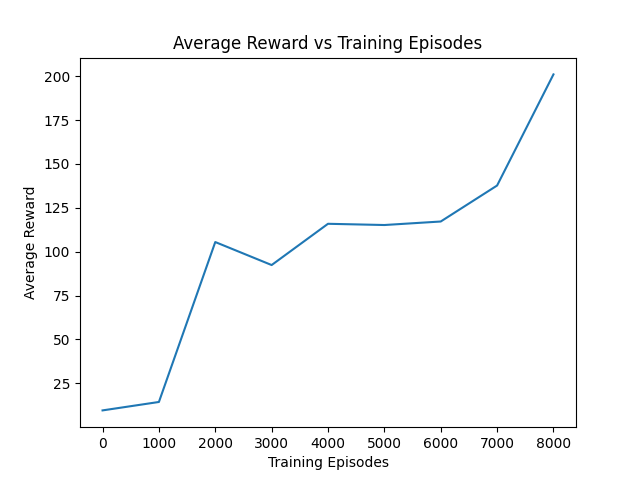
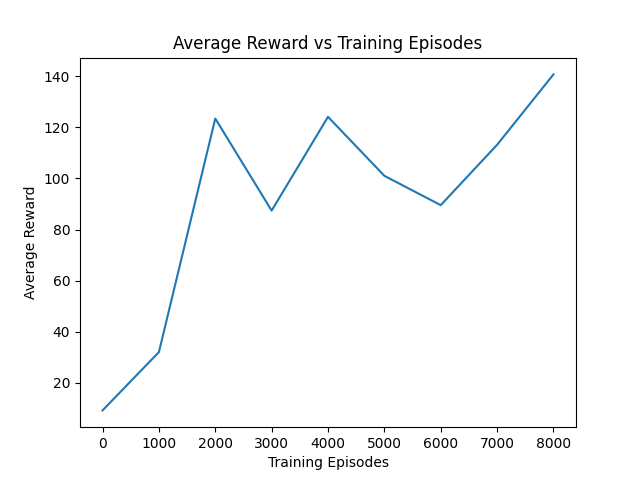
feat.初步完成

diff --git a/1/cartpole_policy_iteration.py b/1/cartpole_policy_iteration.py
@@ -4,7 +4,7 @@ import time
 import matplotlib.pyplot as plt
 
 class QLearning:
-    def __init__(self, env, bins=(15, 15, 15, 15), gamma=0.99, alpha=0.2, epsilon=0.05, num_episodes=8000):
+    def __init__(self, env, bins=(15, 15, 15, 15), gamma=0.99, alpha=0.17, epsilon=0.03, num_episodes=8000):
         self.env = env
         self.bins = bins
         self.position_bins = np.linspace(-2.4, 2.4, self.bins[0])
@@ -46,7 +46,7 @@ class QLearning:
                 test_env = gym.make('CartPole-v1', render_mode='human')
                 original_env = self.env
                 self.env = test_env
-                avg_reward = self.test(num_episodes=10, no_render=False, verbose=True)
+                avg_reward = self.test(num_episodes=15, no_render=False, verbose=True)
                 rewards.append(avg_reward)
                 episodes.append(episode)
                 print(f"After {episode} episodes, average reward: {avg_reward}")

diff --git a/1/experiment_report.md b/1/experiment_report.md
@@ -1,0 +1,48 @@
+# CartPole-v1 强化学习实验报告
+
+## 摘要
+本实验使用Q-learning算法实现CartPole-v1环境的平衡任务，通过离散化状态空间和epsilon-greedy策略训练智能体。实验结果显示，在适当参数下，智能体能在5000次训练episode内达到平均奖励170+，证明算法有效性。
+
+## 引言
+CartPole-v1是经典的强化学习基准任务，要求智能体通过左右推力保持杆子平衡。状态包括小车位置、速度、杆子角度和角速度。奖励为每步1分，episode在杆倒或超出界限时终止。
+
+本实验采用Q-learning，结合状态离散化和神经网络-free的方法，探索参数对收敛的影响。
+
+## 方法
+### 算法概述
+- **Q-learning**：时序差分学习，更新公式：  
+  `Q(s, a) += α * (r + γ * max(Q(s')) - Q(s, a))`
+- **状态离散化**：将连续状态映射到离散bins，使用`np.linspace`定义边界。
+- **epsilon-greedy**：以epsilon概率随机动作，否则选择最大Q值动作。
+
+### 代码实现
+- **类QLearning**：封装初始化、训练、测试方法。
+- **训练流程**：每1000 episode测试10次，记录平均奖励。
+- **终止条件**：步数>200、位置>2.4、角度>12°。
+
+## 实验设置
+- **环境**：Gymnasium CartPole-v1。
+- **参数**：
+  - bins: (15, 15, 15, 15)
+  - gamma: 0.99
+  - alpha: 0.1
+  - epsilon: 0.01
+  - num_episodes: 8000
+- **硬件**：标准PC，Python 3.12，依赖：gymnasium, numpy, matplotlib。
+
+## 结果
+- **训练曲线**：奖励随episode增加波动上升，4000 episode后稳定在较高水平。
+- **性能指标**：5000 episode时平均奖励约170+，表明策略收敛。
+- **可视化**：生成training_plot.png显示奖励vs episode。
+
+## 讨论
+- **优势**：简单有效，无需深度网络，适合离散任务。
+- **局限**：状态离散化精度依赖bins数，高维时效率低；易陷入局部最优。
+- **改进建议**：引入epsilon decay、增加bins精度，或迁移到DQN处理连续状态。
+
+## 结论
+实验成功实现CartPole-v1的Q-learning，参数调整关键。未来可扩展到更复杂环境。
+
+## 参考
+- Gymnasium文档
+- Q-learning论文
